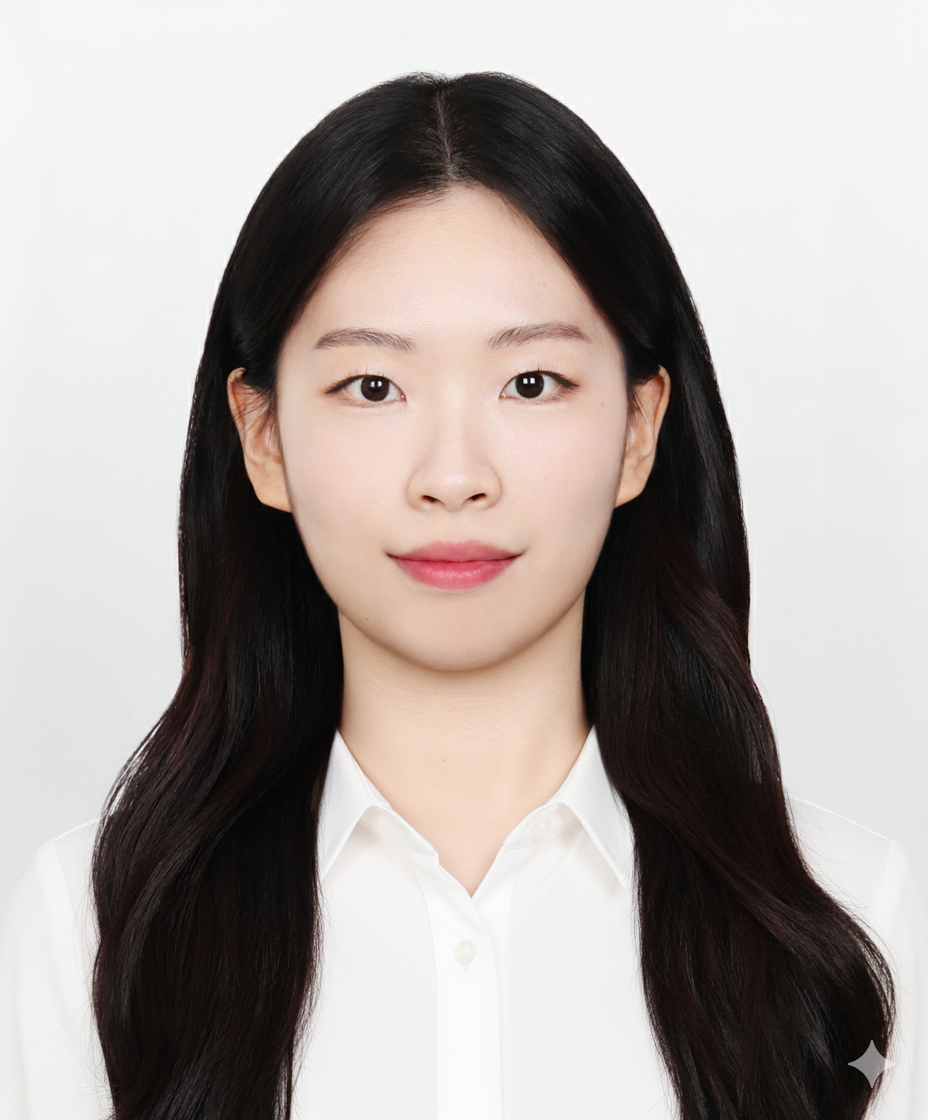
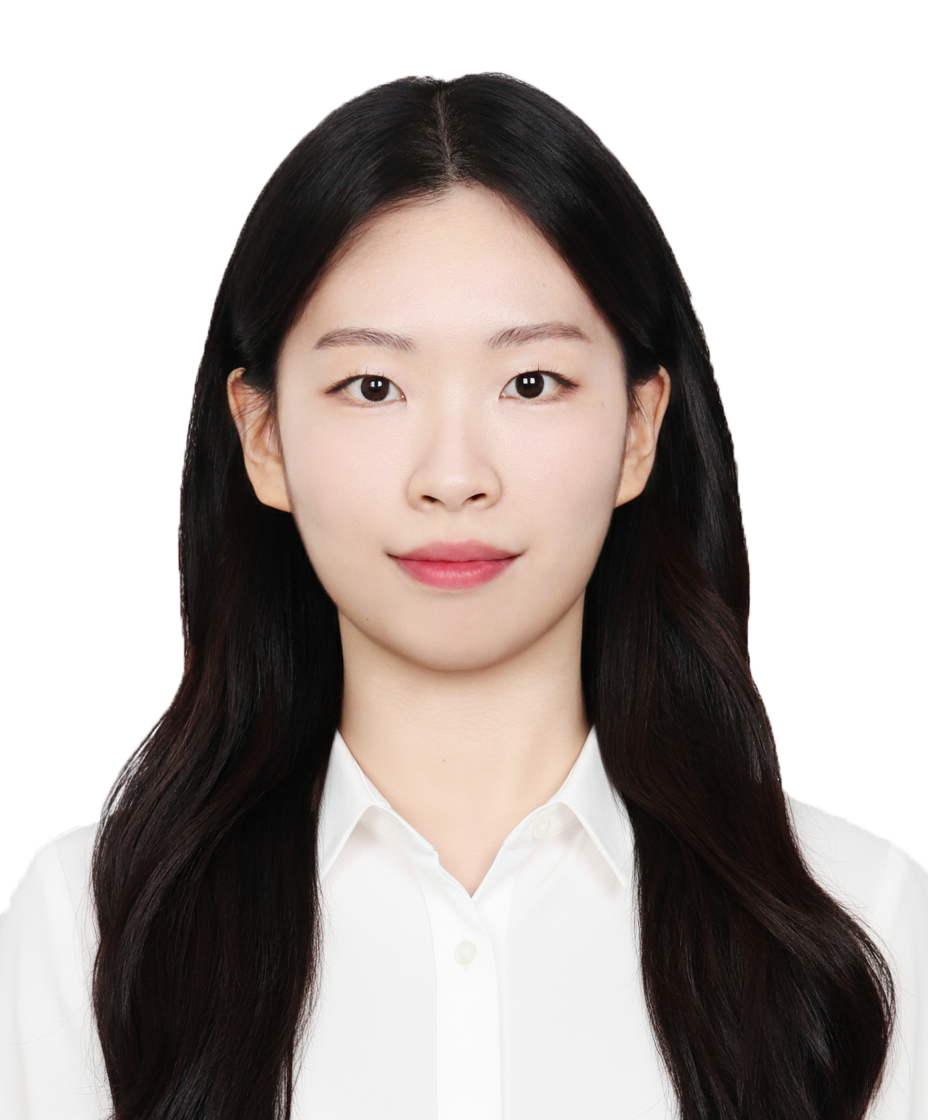
오류수정

diff --git a/index.html b/index.html
@@ -6,7 +6,7 @@
     <meta name="viewport" content="width=device-width, initial-scale=1.0">
     <meta name="description" content="김세정의 포트폴리오입니다.">
     <meta name="keywords" content="Frontend, WebPublisher Portfolio, UX UI디자이너">
-    <title>김세정 포트폴리오(직접코딩)</title>
+    <title>김세정 포트폴리오</title>
     <link rel="stylesheet" href="https://cdn.jsdelivr.net/npm/reset-css@5.0.2/reset.min.css"> <!-- reset css cdn -->
 
     <link rel="stylesheet" href="css/style.css">
@@ -79,7 +79,7 @@
                 <!-- <div class="title">About me</div> -->
                 <div class="df about-box">
                     <div class="about-emoji">
-                        <img src="./image/about4.png" alt="김세정프로필사진">
+                        <img src="./image/about3.png" alt="김세정프로필사진">
                     </div>
 
                     <div class="about-text">
@@ -92,7 +92,7 @@
                                 <p><span>이 &nbsp;&nbsp;름:</span> 김세정</p>
                                 <p><span>나 &nbsp;&nbsp;이:</span> 1998. 02. 23</p>
                                 <p><span>거주지:</span> 서울시 마포구 연남동</p>
-                                <p><span>휴대폰:</span> 010.0000.0000</p>
+                                <p><span>휴대폰:</span> 010.2326.5732</p>
                                 <p><span>이메일:</span> ksjhi123@gmail.com</p>
                                 <ul class="keyword df">
                                     <li>#꼼꼼함</li>
@@ -242,31 +242,26 @@
                         <ul class="inpo">
                             <li>
                                 <p>React를 사용하여 처음으로 제작한 ott웹사이트입니다.
-                                API연동시 어려움이 있었지만 컴포넌트 기반 개발, 팀 협업, 배포 경험을 하며 실제 서비스 개발의 흐름을 이해하게 됐고 React에대한 흥미를 많이 느낀 프로젝트였습니다.</p>
+                                API 연동시 어려움이 있었지만 컴포넌트 기반 개발, 팀 협업, 배포 경험을 하며 실제 서비스 개발의 흐름을 이해하게 됐고 React에대한 흥미를 많이 느낀 프로젝트였습니다.</p>
                             </li>
                             <li>
-                                <span class="bold">기술스택: </span>React + Vite, Tailwind css, Axios, React Router, Git,
-                                Render, Vercel, Swiper.js, Python, PremierePro, AfterEffects
-
+                                <span class="bold">기술스택: </span>React + Vite, Tailwind css, Axios, React Router, Git, Render, Vercel, Swiper.js, Python, Premiere Pro, After Effect
                             </li>
                             <li>
-                                <span class="bold">배포매체: </span> 프론트엔드- Vercel , 백엔드 API- Render
+                                <span class="bold">배포매체: </span>프론트엔드- Vercel , 백엔드 API- Render
                             </li>
                             <li>
                                 <span class="bold">작업기간: </span>4주
                             </li>
                             <li>
-                                <span class="bold">본인 기여도: </span>25%
+                                <span class="bold">본인 기여도: </span>34%
                             </li>
                             <li>
-                                <span class="bold">페이지수 및 특징: </span> <br> 9개 / React Router를 통해 SPA 방식으로 구성, 최신 React 및
-                                Vite 기반으로 주요 브라우저에서 호환 가능하고
-                                TailwindCSS와 Swiper.js도 모던 브라우저에 최적화 <br>
-                                UI: 카드형 콘텐츠, 슬라이더, 다크 테마 <br>
-                                연령별 콘텐츠 필터링: 사용자 연령에 따라 추천 콘텐츠 조정 <br>
-                                AI 챗봇 추천: 네이버 클로바 챗봇과 연동된 대화형 추천 기능 <br>
-                                TMDB 기반 콘텐츠 탐색: 영화, 드라마, 예능 등 다양한 장르 제공 <br>
-                                반응형 디자인: 모바일 및 데스크탑 모두 대응
+                                <span class="bold">페이지수 및 특징: </span>9개 /<br>- React Router 기반 SPA 구조, React + Vite 환경으로 주요 브라우저 호환 <br>
+                                - 카드형 UI, 슬라이더(Swiper), 다크 테마 적용 <br>
+                                - 연령별 콘텐츠 필터링 및 AI 챗봇(네이버 클로바) 추천 기능 <br>
+                                - TMDB 기반 영화·드라마·예능 탐색 <br>
+                                - 모바일·데스크탑 반응형 디자인 지원
                             </li>
                         </ul>
                         <div class="port-btn">
@@ -322,7 +317,7 @@
                 <div class="port-box mt df">
                     <div class="port-frame">
                         <img src="./image/projectsMockup.png" alt="">
-                        <a href="https://morebomb-frontend.vercel.app/" target="_blank" class="hidden pj3">
+                        <a href="https://tpwjd123.github.io/project1/" target="_blank" class="hidden pj3">
                             <img src="./image/project-3.png" alt="대한민국구석구석 리디자인">
                         </a>
                     </div>
@@ -349,12 +344,12 @@
                                 <span class="bold">본인 기여도: </span>100%
                             </li>
                             <li>
-                                <span class="bold">페이지수 / 특징: </span> 메인페이지/ 접근성 준수
+                                <span class="bold">페이지수 / 특징: </span> 메인페이지 1개 / <br>- 여행 정보 기반 UI 정적 웹페이지 <br>- 접근성 준수 <br>- 반응형 디자인
                             </li>
                         </ul>
                         <div class="port-btn">
-                            <a href="https://github.com/tpwjd123/project1.git" target="_blank" class="btn">깃허브</a>
                             <a href="https://tpwjd123.github.io/project1/" target="_blank" class="btn">홈페이지</a>
+                            <a href="https://github.com/tpwjd123/project1.git" target="_blank" class="btn">깃허브</a>
                         </div>
                     </div>
                 </div> <!-- //대한민국구석구석프로젝트3. -->
@@ -609,7 +604,7 @@
                 <div class="contactBox df">
                     <div class="contact-left">
                         <span class="point">CALL</span>
-                        <span>010.2326.0000</span>
+                        <span>010.2326.5732</span>
                         <span class="point">MAIL</span>
                         <span>ksjhi123@gmail.com</span>
                     </div>

diff --git a/css/main.css b/css/main.css
@@ -268,7 +268,7 @@ ul.program-icon img {
 }
 
 .hidden.pj3 img:hover {
-    transform: translate(0, -1270px);
+    transform: translate(0, -1510px);
     transition: all 4s ease;
 }
 
